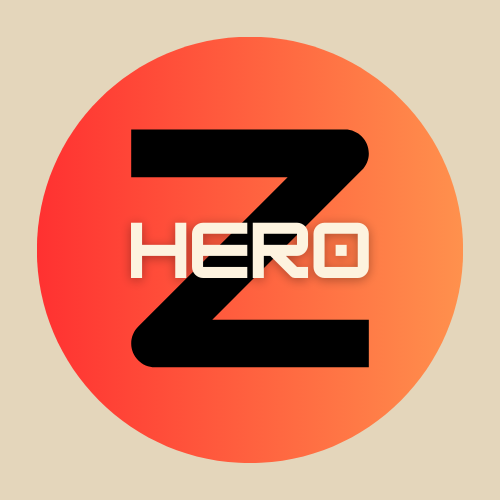
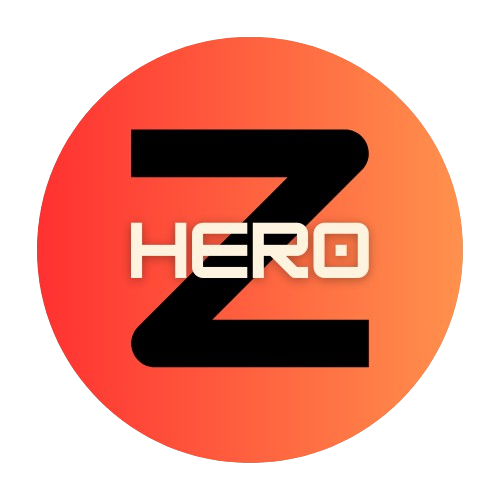
updated login form

diff --git a/login-style.css b/login-style.css
@@ -24,7 +24,7 @@ body {
 }
 
 h1 {
-    color: #e29235e8;
+    color: #ff2600bd;
 }
 
 label {
@@ -69,5 +69,14 @@ button:hover {
     display: flex;
     justify-content: center;
     align-items: center;
+}
+.logo-container {
+    margin-bottom: 20px;
+}
+.logo {
+    max-width: 100px;
+    height: auto;
+    display: block;
+    margin: 0 auto;
 }
 

diff --git a/adminlogin.html b/adminlogin.html
@@ -11,6 +11,11 @@
 <body>
     <div class="main">
         <h1>Admin</h1>
+        
+        <div class+ "logo-container">
+            <img src="ZHERO.png" alt="logo" class="logo">
+        </div>
+    
         <h3>Enter your login credentials</h3>
 
         <!-- Form without an action attribute to handle redirection in JavaScript -->
